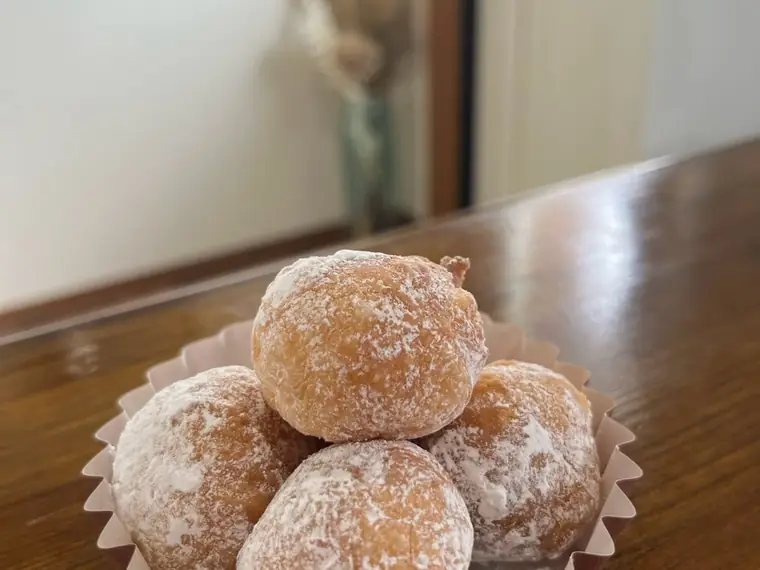
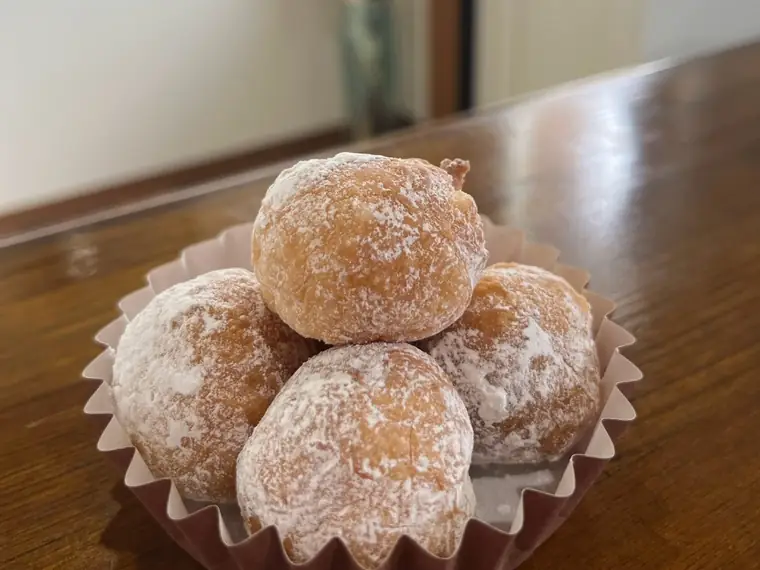
商品写真に左右の矢印を付け、写真の追加・切り抜き・並べ替え
・食パンに朝食の写真を追加（メインフォルダのPNGから。元が682pxと
  小さいので拡大はせず、そのままの幅で出す）
・菓子パン3枚目を切り抜き直し、パンが中央に来るようにした
  （切り抜きの中心を y=0.50 から 0.72 へ）
・ジャムは1枚目だった jam-jar を4枚目へ回した
・インスタのような左右の矢印を全ギャラリーに追加。写真の縦中央に
  重ね、端では消える。44×44

320/390px で、横スクロール・はみ出し・タップ領域を確認。
矢印の往復と、端で消えることも実機のフレームを回して確認した。

diff --git a/index.html b/index.html
@@ -16,7 +16,7 @@
 <link rel="preconnect" href="https://fonts.googleapis.com">
 <link rel="preconnect" href="https://fonts.gstatic.com" crossorigin>
 <link rel="stylesheet" href="https://fonts.googleapis.com/css2?family=Cormorant+Garamond:ital,wght@0,300;0,400;1,300;1,400&family=Noto+Sans+JP:wght@300;400;500&family=Noto+Serif+JP:wght@200;300;400&display=swap">
-<link rel="stylesheet" href="style.css?v=20261002c">
+<link rel="stylesheet" href="style.css?v=20261002d">
 
 <script type="application/ld+json">
 {
@@ -145,9 +145,12 @@
     <div class="product-list">
       <article class="product">
       <div class="gallery">
-        <div class="gallery-track" tabindex="0" role="group" aria-label="食卓の食パン の写真 2枚">
-          <img class="product-media" src="assets/web/loaves.webp" width="1000" height="750" loading="lazy" alt="スノコに並んだ、焼きあがったばかりの食パン">
-          <img class="product-media" src="assets/web/shelf.webp" width="1000" height="750" loading="lazy" alt="木の棚に並んだ食パン">
+        <div class="gallery-frame">
+          <div class="gallery-track" tabindex="0" role="group" aria-label="食卓の食パン の写真 3枚">
+            <img class="product-media" src="assets/web/loaves.webp" width="1000" height="750" loading="lazy" alt="スノコに並んだ、焼きあがったばかりの食パン">
+            <img class="product-media" src="assets/web/shelf.webp" width="1000" height="750" loading="lazy" alt="木の棚に並んだ食パン">
+            <img class="product-media" src="assets/web/breakfast-set.webp" width="682" height="512" loading="lazy" alt="自家製ジャムをのせたトーストのある朝の食卓">
+          </div>
         </div>
         <div class="gallery-dots"></div>
       </div>
@@ -160,10 +163,12 @@
 
       <article class="product">
       <div class="gallery">
-        <div class="gallery-track" tabindex="0" role="group" aria-label="その日の菓子パン の写真 3枚">
-          <img class="product-media" src="assets/web/sweets.webp" width="1000" height="750" loading="lazy" alt="焼きあがった菓子パン。かのこ豆チーズパン、ピザパン、シナモンロールなど">
-          <img class="product-media" src="assets/web/sweets-2.webp" width="760" height="570" loading="lazy" alt="店頭に並ぶ、袋詰めの菓子パン">
-          <img class="product-media" src="assets/web/sweets-3.webp" width="760" height="570" loading="lazy" alt="粉砂糖をまぶした菓子パン">
+        <div class="gallery-frame">
+          <div class="gallery-track" tabindex="0" role="group" aria-label="その日の菓子パン の写真 3枚">
+            <img class="product-media" src="assets/web/sweets.webp" width="1000" height="750" loading="lazy" alt="焼きあがった菓子パン。かのこ豆チーズパン、ピザパン、シナモンロールなど">
+            <img class="product-media" src="assets/web/sweets-2.webp" width="760" height="570" loading="lazy" alt="店頭に並ぶ、袋詰めの菓子パン">
+            <img class="product-media" src="assets/web/sweets-3.webp" width="760" height="570" loading="lazy" alt="粉砂糖をまぶした菓子パン">
+          </div>
         </div>
         <div class="gallery-dots"></div>
       </div>
@@ -176,11 +181,13 @@
 
       <article class="product">
       <div class="gallery">
-        <div class="gallery-track" tabindex="0" role="group" aria-label="季節の自家製ジャム の写真 4枚">
-          <img class="product-media" src="assets/web/jam-jar.webp" width="1000" height="750" loading="lazy" alt="&amp;.&amp; オリジナルジャムの瓶">
-          <img class="product-media" src="assets/web/jam-stack.webp" width="760" height="570" loading="lazy" alt="店頭に積まれた自家製ジャムの瓶">
-          <img class="product-media" src="assets/web/jam-orange.webp" width="800" height="600" loading="lazy" alt="自家製ジャムの瓶と、お店のロゴボード">
-          <img class="product-media" src="assets/web/jam-red.webp" width="800" height="600" loading="lazy" alt="赤いジャムの瓶が2つ並んだところ">
+        <div class="gallery-frame">
+          <div class="gallery-track" tabindex="0" role="group" aria-label="季節の自家製ジャム の写真 4枚">
+            <img class="product-media" src="assets/web/jam-stack.webp" width="760" height="570" loading="lazy" alt="店頭に積まれた自家製ジャムの瓶">
+            <img class="product-media" src="assets/web/jam-orange.webp" width="800" height="600" loading="lazy" alt="自家製ジャムの瓶と、お店のロゴボード">
+            <img class="product-media" src="assets/web/jam-red.webp" width="800" height="600" loading="lazy" alt="赤いジャムの瓶が2つ並んだところ">
+            <img class="product-media" src="assets/web/jam-jar.webp" width="1000" height="750" loading="lazy" alt="&amp;.&amp; オリジナルジャムの瓶">
+          </div>
         </div>
         <div class="gallery-dots"></div>
       </div>
@@ -193,12 +200,14 @@
 
       <article class="product">
       <div class="gallery">
-        <div class="gallery-track" tabindex="0" role="group" aria-label="我が家の果物 の写真 5枚">
-          <img class="product-media" src="assets/web/grapes.webp" width="1000" height="750" loading="lazy" alt="我が家で育てたシャインマスカットの袋詰め">
-          <img class="product-media" src="assets/web/kiwi.webp" width="1000" height="750" loading="lazy" alt="我が家で育てたゴールドキウイとレインボーレッド">
-          <img class="product-media" src="assets/web/grapes-2.webp" width="760" height="570" loading="lazy" alt="袋詰めにしたシャインマスカット">
-          <img class="product-media" src="assets/web/shelf-fruit.webp" width="760" height="570" loading="lazy" alt="棚に並ぶシャインマスカットとパン">
-          <img class="product-media" src="assets/web/blueberry-bush.webp" width="760" height="570" loading="lazy" alt="色づきはじめたブルーベリーの実">
+        <div class="gallery-frame">
+          <div class="gallery-track" tabindex="0" role="group" aria-label="我が家の果物 の写真 5枚">
+            <img class="product-media" src="assets/web/grapes.webp" width="1000" height="750" loading="lazy" alt="我が家で育てたシャインマスカットの袋詰め">
+            <img class="product-media" src="assets/web/kiwi.webp" width="1000" height="750" loading="lazy" alt="我が家で育てたゴールドキウイとレインボーレッド">
+            <img class="product-media" src="assets/web/grapes-2.webp" width="760" height="570" loading="lazy" alt="袋詰めにしたシャインマスカット">
+            <img class="product-media" src="assets/web/shelf-fruit.webp" width="760" height="570" loading="lazy" alt="棚に並ぶシャインマスカットとパン">
+            <img class="product-media" src="assets/web/blueberry-bush.webp" width="760" height="570" loading="lazy" alt="色づきはじめたブルーベリーの実">
+          </div>
         </div>
         <div class="gallery-dots"></div>
       </div>
@@ -321,48 +330,70 @@
 
 <script>
 /* 商品写真のスライド。
-   横に動かすのはCSS（scroll-snap）に任せ、ここは下の丸印だけを受け持つ。
+   横に動かすのはCSS（scroll-snap）に任せ、ここは丸印と左右の矢印を受け持つ。
    JSが動かなくても、指でなぞれば写真は見られる。 */
 (function () {
   document.querySelectorAll('.gallery').forEach(function (gal) {
+    var frame = gal.querySelector('.gallery-frame');
     var track = gal.querySelector('.gallery-track');
     var shots = track.querySelectorAll('img');
-    if (shots.length < 2) return;          // 1枚だけなら丸印は出さない
+    if (shots.length < 2) return;        // 1枚だけなら矢印も丸印も出さない
 
     var dots = gal.querySelector('.gallery-dots');
     var buttons = [];
+    var prev, next;
+    var cur = 0;
 
     function light(n) {
+      cur = n;
       buttons.forEach(function (b, i) {
         b.classList.toggle('is-on', i === n);
         b.setAttribute('aria-current', i === n ? 'true' : 'false');
       });
+      // 端では矢印を消す
+      prev.hidden = (n <= 0);
+      next.hidden = (n >= shots.length - 1);
     }
+
+    function go(n) {
+      n = Math.max(0, Math.min(shots.length - 1, n));
+      var want = track.clientWidth * n;
+      track.scrollTo({ left: want, behavior: 'smooth' });
+      /* なめらかな移動が効かない環境（タブが裏にある、動きを減らす設定、など）では
+         何も起こらないまま終わる。動いていなければ、すぐに飛ばす。 */
+      setTimeout(function () {
+        if (Math.abs(track.scrollLeft - want) > 4) {
+          track.scrollTo({ left: want, behavior: 'instant' });
+        }
+      }, 350);
+      light(n);      // 見た目はその場で合わせる（通知を待たない）
+    }
+
+    function arrow(cls, label, mark, step) {
+      var a = document.createElement('button');
+      a.type = 'button';
+      a.className = 'gallery-arrow ' + cls;
+      a.setAttribute('aria-label', label);
+      a.textContent = mark;
+      a.addEventListener('click', function () { go(cur + step); });
+      frame.appendChild(a);
+      return a;
+    }
+    prev = arrow('is-prev', '前の写真', '\u2039', -1);
+    next = arrow('is-next', '次の写真', '\u203a', 1);
 
     shots.forEach(function (_, i) {
       var b = document.createElement('button');
       b.type = 'button';
       b.className = 'gallery-dot';
       b.setAttribute('aria-label', (i + 1) + '枚目の写真を見る');
-      b.addEventListener('click', function () {
-        var want = track.clientWidth * i;
-        track.scrollTo({ left: want, behavior: 'smooth' });
-        /* なめらかな移動が効かない環境（タブが裏にある、動きを減らす設定、など）では
-           何も起こらないことがある。動いていなければ、すぐに飛ばす。 */
-        setTimeout(function () {
-          if (Math.abs(track.scrollLeft - want) > 4) {
-            track.scrollTo({ left: want, behavior: 'instant' });
-          }
-        }, 350);
-        light(i);        // 丸印はその場で合わせる（監視の通知を待たない）
-      });
+      b.addEventListener('click', function () { go(i); });
       dots.appendChild(b);
       buttons.push(b);
     });
 
-    /* どの写真が見えているかは IntersectionObserver で拾う。
-       scroll イベントを数える作りだと、ブラウザが描画を間引いている場面で
-       丸印が止まったままになる。見えているかどうかを直接見るほうが確実。 */
+    /* どの写真が見えているかの追従。
+       IntersectionObserver と scroll の両方を掛けてある。片方しか動かない環境があるため。 */
     if ('IntersectionObserver' in window) {
       var io = new IntersectionObserver(function (entries) {
         entries.forEach(function (e) {
@@ -371,17 +402,16 @@
       }, { root: track, threshold: 0.6 });
       shots.forEach(function (img) { io.observe(img); });
     }
-    // 監視と scroll の両方を掛けておく。片方しか動かない環境があるため
     var timer = null;
-    track.addEventListener('scroll', function () {
+    function fromScroll() {
       clearTimeout(timer);
       timer = setTimeout(function () {
         light(Math.round(track.scrollLeft / track.clientWidth));
       }, 90);
-    }, { passive: true });
-    window.addEventListener('resize', function () {
-      light(Math.round(track.scrollLeft / track.clientWidth));
-    });
+    }
+    track.addEventListener('scroll', fromScroll, { passive: true });
+    window.addEventListener('resize', fromScroll);
+
     light(0);
   });
 })();

diff --git a/style.css b/style.css
@@ -300,6 +300,9 @@ section { padding: 60px var(--gutter) 64px; }
 /* 横に動かすのは scroll-snap に任せる。JSは下の丸印だけ。
    アーチは写真ではなく枠側に持たせる（写真が入れ替わっても形が崩れない）。 */
 .gallery { display: block; }
+/* 矢印を写真の上に重ねるための基準。丸印はこの外に置く
+   （この中に入れると、矢印が写真＋丸印の真ん中に来てしまう） */
+.gallery-frame { position: relative; }
 .gallery-track {
   display: flex;
   overflow-x: auto;
@@ -317,6 +320,33 @@ section { padding: 60px var(--gutter) 64px; }
   scroll-snap-stop: always;
 }
 .gallery-track:focus-visible { outline: 2px solid var(--gold); outline-offset: 3px; }
+
+/* インスタのような左右の矢印。写真の縦中央に重ねる */
+.gallery-arrow {
+  position: absolute;
+  top: 50%;
+  transform: translateY(-50%);
+  z-index: 2;
+  width: 44px;
+  height: 44px;
+  display: flex;
+  align-items: center;
+  justify-content: center;
+  padding: 0 0 2px;
+  border: 0;
+  border-radius: 50%;
+  background: rgba(255, 255, 255, 0.86);
+  color: var(--ink);
+  font-family: inherit;
+  font-size: 23px;
+  line-height: 1;
+  cursor: pointer;
+  box-shadow: 0 1px 6px rgba(42, 37, 34, 0.18);
+}
+/* display: flex が効いていると hidden が無視される */
+.gallery-arrow[hidden] { display: none; }
+.gallery-arrow.is-prev { left: 7px; }
+.gallery-arrow.is-next { right: 7px; }
 
 .gallery-dots {
   display: flex;
